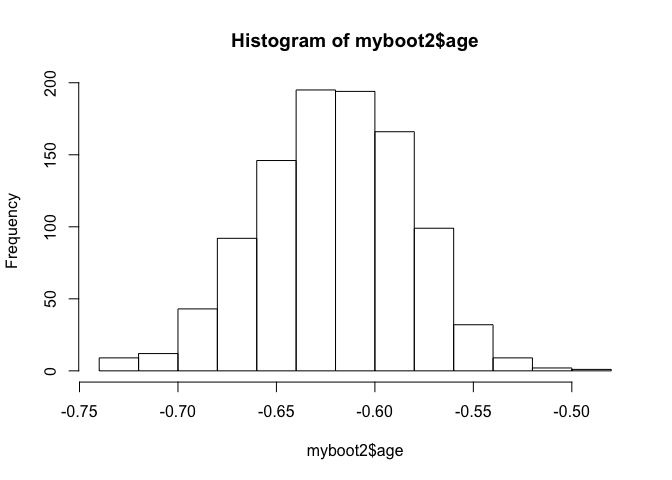
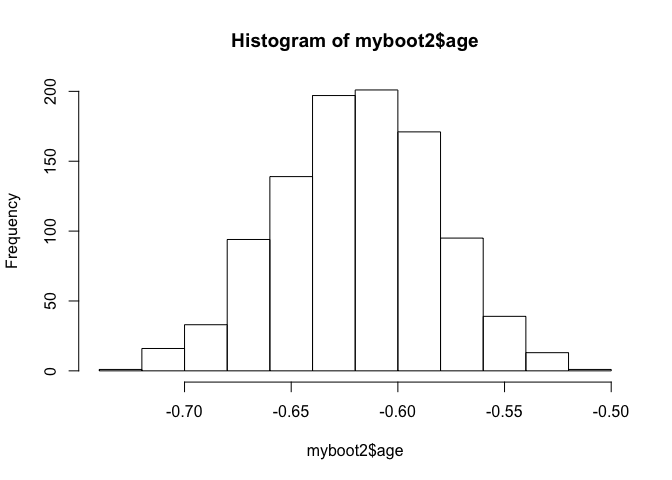
minor

diff --git a/teaching/r/creatinine/creatinine_bootstrap.md b/teaching/r/creatinine/creatinine_bootstrap.md
@@ -8,7 +8,8 @@ Approximating the sampling distribution by bootstrapping
 Learning goals:  
 \* bootstrap the sample mean  
 \* bootstrap the OLS estimator  
-\* compute and interpret the bootstrapped standard error
+\* compute and interpret the bootstrapped standard error  
+\* compute confidence intervals from bootstrapped samples
 
 Data files:  
 \* [creatinine.csv](creatinine.csv): data on age and kidney function for
@@ -74,27 +75,27 @@ command.
     bootstrapped_sample = sample(creatinine, size = 157, replace=TRUE)
     head(bootstrapped_sample, 20)
 
-    ##      age creatclear orig.ids
-    ## 18    34      128.6       18
-    ## 109   31      123.1      109
-    ## 31    32      117.5       31
-    ## 73    65       89.3       73
-    ## 40    25      132.9       40
-    ## 112   27      141.2      112
-    ## 49    24      129.0       49
-    ## 68    28      123.7       68
-    ## 25    28      126.8       25
-    ## 33    25      127.7       33
-    ## 64    63      114.6       64
-    ## 155   69      110.9      155
-    ## 62    30      124.4       62
-    ## 143   41      119.1      143
-    ## 63    33      126.5       63
-    ## 39    32      132.7       39
-    ## 142   80      113.3      142
-    ## 14    55      114.0       14
-    ## 62.1  30      124.4       62
-    ## 71    54      125.9       71
+    ##     age creatclear orig.ids
+    ## 95   25      139.7       95
+    ## 120  25      133.1      120
+    ## 139  27      129.8      139
+    ## 58   18      143.8       58
+    ## 18   34      128.6       18
+    ## 69   62      102.3       69
+    ## 138  23      119.9      138
+    ## 81   44      121.2       81
+    ## 22   31      122.4       22
+    ## 47   36      133.5       47
+    ## 39   32      132.7       39
+    ## 125  24      129.6      125
+    ## 129  29      128.2      129
+    ## 152  70       95.8      152
+    ## 144  45      117.8      144
+    ## 146  19      120.0      146
+    ## 93   21      135.9       93
+    ## 133  43      123.2      133
+    ## 113  63      112.5      113
+    ## 42   23      131.6       42
 
 If you look carefully, you may see a repeated entry in these first 20
 rows. That's because our bootstrapped sample is a sample with
@@ -113,7 +114,8 @@ the `resample` command, which we'll use from now on. Try executing the
 following block of code 5 or 10 times to get a feel for the different
 patterns of ties and omissions that arise in each bootstrapped sample.
 
-    bootstrapped_sample = resample(creatinine)  # same as sample(creatinine, size = 157, replace=TRUE)
+    # same as sample(creatinine, size = 157, replace=TRUE)
+    bootstrapped_sample = resample(creatinine)  
     plot(table(bootstrapped_sample$orig.ids))
 
 ![](creatinine_bootstrap_files/figure-markdown_strict/unnamed-chunk-6-1.png)
@@ -135,10 +137,10 @@ an idea of how the sample mean changes from sample to sample.
 Try executing the following block of code 5-10 times to see the
 different sample means you get for each bootstrapped sample.
 
-    bootstrapped_sample = resample(creatinine)  # same as sample(creatinine, size = 157, replace=TRUE)
+    bootstrapped_sample = resample(creatinine)
     mean(bootstrapped_sample$creatclear)
 
-    ## [1] 125.6669
+    ## [1] 124.7917
 
 The final trick is to use the `do` command to automatic the process of
 taking repeated bootstrapped samples and computing the sample mean for
@@ -150,16 +152,16 @@ each one.
     }
 
     ##      result
-    ## 1  124.2752
-    ## 2  127.4242
-    ## 3  125.8299
-    ## 4  123.9924
-    ## 5  126.8631
-    ## 6  126.2904
-    ## 7  125.0115
-    ## 8  124.7197
-    ## 9  125.7344
-    ## 10 126.0331
+    ## 1  124.8745
+    ## 2  127.0350
+    ## 3  124.9299
+    ## 4  125.6752
+    ## 5  125.0191
+    ## 6  125.6076
+    ## 7  125.4535
+    ## 8  125.4682
+    ## 9  124.1707
+    ## 10 124.5783
 
 If this looks unfamiliar, try revisiting the ["Gone
 fishing"](http://jgscott.github.io/teaching/r/gonefishing/gonefishing.html)
@@ -180,7 +182,7 @@ sample mean for each one and visualize the results.
 
     sd(myboot$result)
 
-    ## [1] 0.9261576
+    ## [1] 0.9907289
 
 Because we have different bootstrapped samples, your histogram and
 estimated standard error will look slightly different from mine. But
@@ -226,7 +228,7 @@ sample. Try executing this code block 5-10 different times:
     ## 
     ## Coefficients:
     ## (Intercept)          age  
-    ##    146.6244      -0.5985
+    ##    145.8344      -0.5667
 
 Notice how the slope and intercept of the fitted line change for each
 sample.
@@ -239,15 +241,16 @@ command to automate the whole process and save the result.
       lm_boot = lm(creatclear~age, data=resample(creatinine))
       lm_boot
     }
+    # Inspect the first several lines
     head(myboot2)
 
     ##   Intercept        age    sigma r.squared        F
-    ## 1  147.7636 -0.6157572 6.627940 0.5875267 220.7819
-    ## 2  148.0058 -0.6263379 6.661032 0.7010043 363.4021
-    ## 3  146.1444 -0.5816035 7.182106 0.6332083 267.5831
-    ## 4  149.4105 -0.6647822 7.771923 0.6819061 332.2775
-    ## 5  147.8890 -0.6209656 6.998416 0.6708545 315.9164
-    ## 6  149.3222 -0.6488174 6.953649 0.7078235 375.5013
+    ## 1  146.3874 -0.5949259 7.349727 0.6366280 271.5601
+    ## 2  146.5769 -0.5885913 6.848672 0.6077806 240.1869
+    ## 3  147.0285 -0.6098881 6.864993 0.6616170 303.0608
+    ## 4  147.4192 -0.6291794 6.969385 0.6259461 259.3787
+    ## 5  148.5842 -0.6448014 7.029900 0.6859843 338.6058
+    ## 6  146.3252 -0.5841131 6.653937 0.6304692 264.4509
 
 Notice that we have separate columns for the intercept, slope on the age
 variable, sigma (the residual standard deviation), and R-squared. (Don't
@@ -260,7 +263,7 @@ distributions for the intercept and slope.
 
     sd(myboot2$Intercept)
 
-    ## [1] 1.435418
+    ## [1] 1.393358
 
     hist(myboot2$age)
 
@@ -268,7 +271,7 @@ distributions for the intercept and slope.
 
     sd(myboot2$age)
 
-    ## [1] 0.03821251
+    ## [1] 0.03712744
 
 ### Confidence intervals
 
@@ -291,7 +294,7 @@ endpoints on the plot.
     myinterval
 
     ##        10%        90% 
-    ## -0.6711636 -0.5737321
+    ## -0.6691491 -0.5711980
 
 We would refer to this interval as an 80% confidence interval for the
 slope of the age variable in our regression model. (As above, your
@@ -311,17 +314,17 @@ for all model parameters:
     confint(myboot2, level=0.8)
 
     ##        name       lower       upper level method    estimate
-    ## 1 Intercept 145.9965734 149.6756982   0.8 stderr 147.8361358
-    ## 2       age  -0.6697650  -0.5718224   0.8 stderr  -0.6207937
-    ## 3     sigma   6.3416611   7.3618369   0.8 stderr   6.8517490
-    ## 4 r.squared   0.6174491   0.7258576   0.8 stderr   0.6716534
-    ## 5         F 246.7638591 402.7980149   0.8 stderr 324.7809370
+    ## 1 Intercept 145.9965686 149.5678883   0.8 stderr 147.7822285
+    ## 2       age  -0.6664781  -0.5713167   0.8 stderr  -0.6188974
+    ## 3     sigma   6.3963693   7.3316052   0.8 stderr   6.8639873
+    ## 4 r.squared   0.6151126   0.7222152   0.8 stderr   0.6686639
+    ## 5         F 243.1687314 397.3969785   0.8 stderr 320.2828549
     ##   margin.of.error
-    ## 1      1.83956239
-    ## 2      0.04897131
-    ## 3      0.51008791
-    ## 4      0.05420430
-    ## 5     78.01707788
+    ## 1      1.78565986
+    ## 2      0.04758073
+    ## 3      0.46761796
+    ## 4      0.05355127
+    ## 5     77.11412359
 
 You will notice that this gives a slightly different answer to the
 confidence interval we calculated from the quantiles, above. That's
